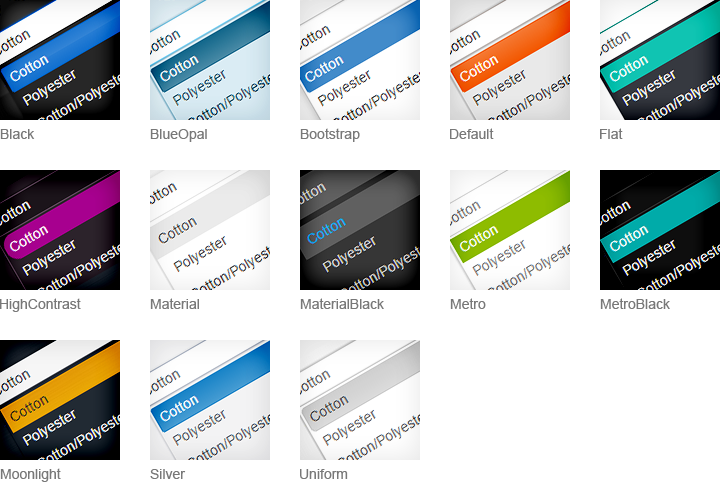
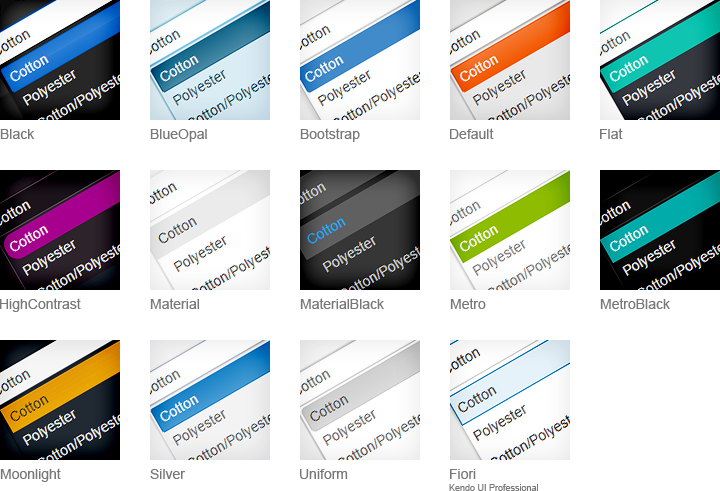
Document Fiori theme files

diff --git a/web/appearance-styling.md b/web/appearance-styling.md
@@ -29,13 +29,15 @@ Setting a Kendo UI **Web** theme (i.e. excluding Mobile and DataViz) requires th
 The appearance of the **Kendo UI** widgets depends entirely on styles defined by the applied CSS classes.
 No inline styles are used, except for some very specific cases in which these styles must be set with Javascript, depending on the browser or configuration.
 
-Some themes require a different "common" stylesheet that applies different dimensions. There are three "common" styleshees shipped with Kendo UI:
+Some themes require a different "common" stylesheet that applies different dimensions. There are four "common" styleshees shipped with Kendo UI:
 
 * **kendo.common.css** - The default base stylesheet.
 
 * **kendo.common-bootstrap.css** - The base stylesheet for the Bootstrap theme. Use this file instead of kendo.common.css and only with kendo.bootstrap.css theme file to achieve Bootstrap like widget dimensions.
 
 * **kendo.common-material.css** - The base stylesheet for the Material and MaterialBlack themes. Use this file instead of kendo.common.css and only with kendo.material.css or kendo.materialblack.css theme files.
+
+* **kendo.common-fiori.css** - The base stylesheet for the Fiori theme available in Kendo UI Professional. Use this file instead of kendo.common.css and only with kendo.fiori.css.
 
 ## Primitives
 
